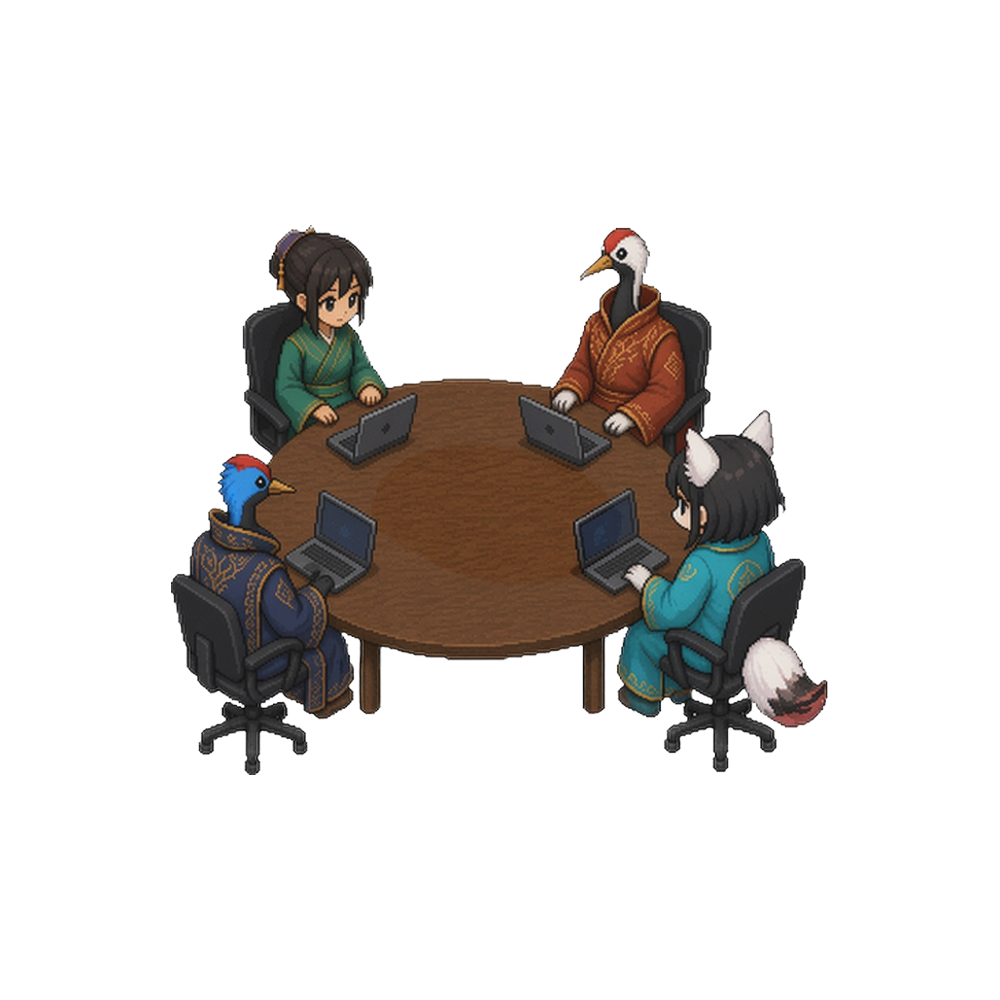
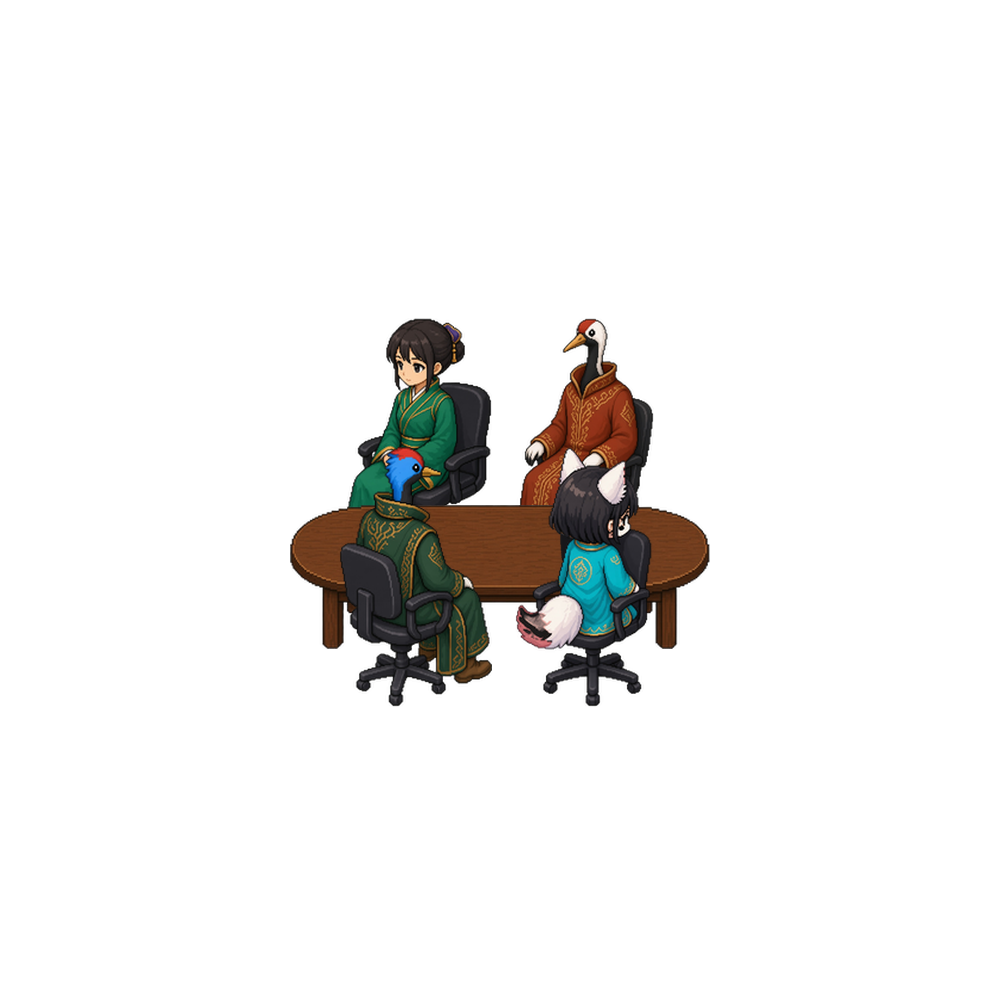
pixel map: 抉擇塔+磁鐵 use brand oval table; seats/laptops kept, retuned scale
Compose from furn-meeting-table-oval + existing seat sprites + laptops.
No GenerateImage; brand vignette-3 unchanged.

Changed region(s): [[0.155, 0.217, 0.837, 0.775]]

diff --git a/ai-office-pixel-map.html b/ai-office-pixel-map.html
@@ -604,8 +604,8 @@
           vignette: 'meeting-vignette-2.png',
           members: [
             /* tags for dba2641 vignette people (heads near top); center = above head */
-            { name: '智子', seat: 'zhizi-seat', tag: { left: 38, top: 8, side: 'center' } },
-            { name: '決策官', seat: 'decision-seat', tag: { left: 62, top: 6, side: 'center' } }
+            { name: '智子', seat: 'zhizi-seat', tag: { left: 38, top: 28, side: 'center' } },
+            { name: '決策官', seat: 'decision-seat', tag: { left: 62, top: 28, side: 'center' } }
           ],
           blurb: '會議室 · 群組 · 智子、決策官'
         }
@@ -617,10 +617,10 @@
           tint: '#a5f3fc',
           vignette: 'meeting-vignette-4.png',
           members: [
-            { name: '智子', seat: 'zhizi-seat', tag: { left: 36, top: 6, side: 'center' } },
-            { name: '藍圖官', seat: 'blueprint-seat', tag: { left: 64, top: 6, side: 'center' } },
-            { name: '鑄造使', seat: 'forge-seat', tag: { left: 22, top: 70, side: 'center' } },
-            { name: '文案官', seat: 'copywriter-seat', tag: { left: 78, top: 70, side: 'center' } }
+            { name: '智子', seat: 'zhizi-seat', tag: { left: 36, top: 26, side: 'center' } },
+            { name: '藍圖官', seat: 'blueprint-seat', tag: { left: 64, top: 26, side: 'center' } },
+            { name: '鑄造使', seat: 'forge-seat', tag: { left: 36, top: 72, side: 'center' } },
+            { name: '文案官', seat: 'copywriter-seat', tag: { left: 64, top: 72, side: 'center' } }
           ],
           blurb: '會議室 · 群組 · 智子、藍圖官、鑄造使、文案官'
         },
@@ -645,7 +645,7 @@
     const FURN_V = 'furn31';
     const SPRITE_V = 'meet13';
     const SEAT_V = 'seat12';
-    const VIGNETTE_V = 'vig11'; /* clean oval only: sprite recompose v2+v4, old table layers gone */
+    const VIGNETTE_V = 'vig12'; /* clean oval only: sprite recompose v2+v4, old table layers gone */
 
 
     function checker(tint) {
